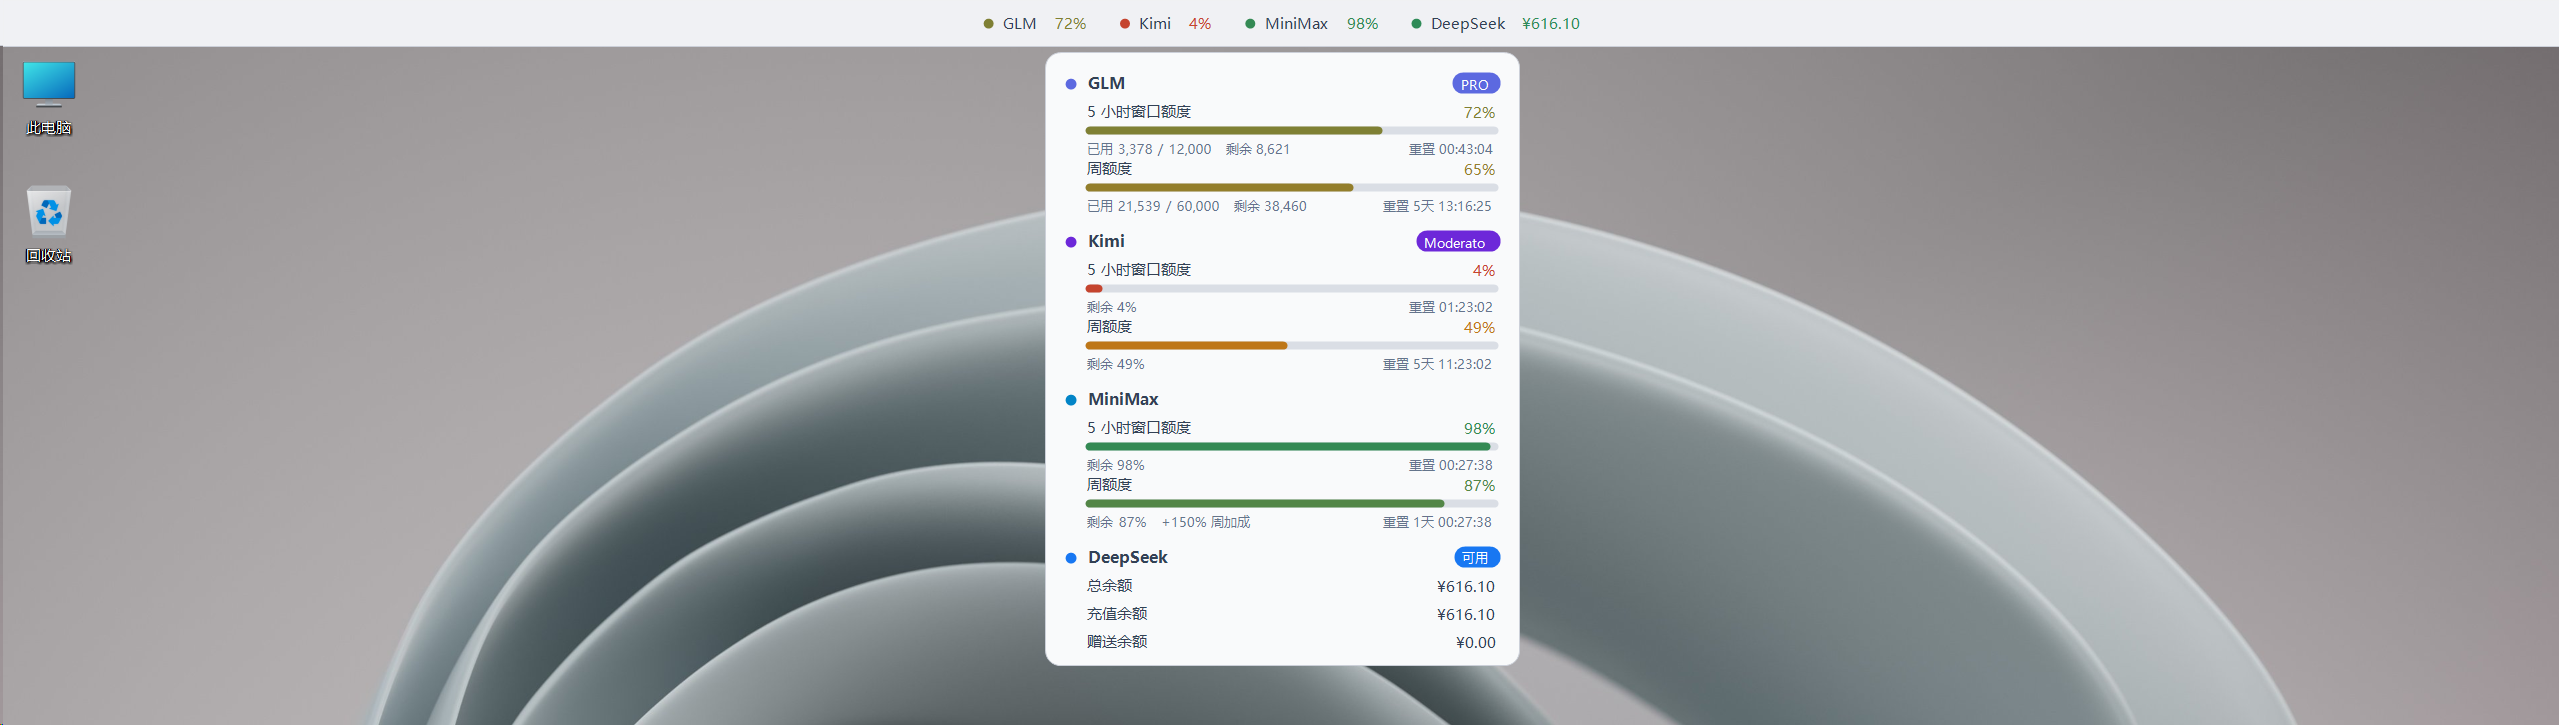
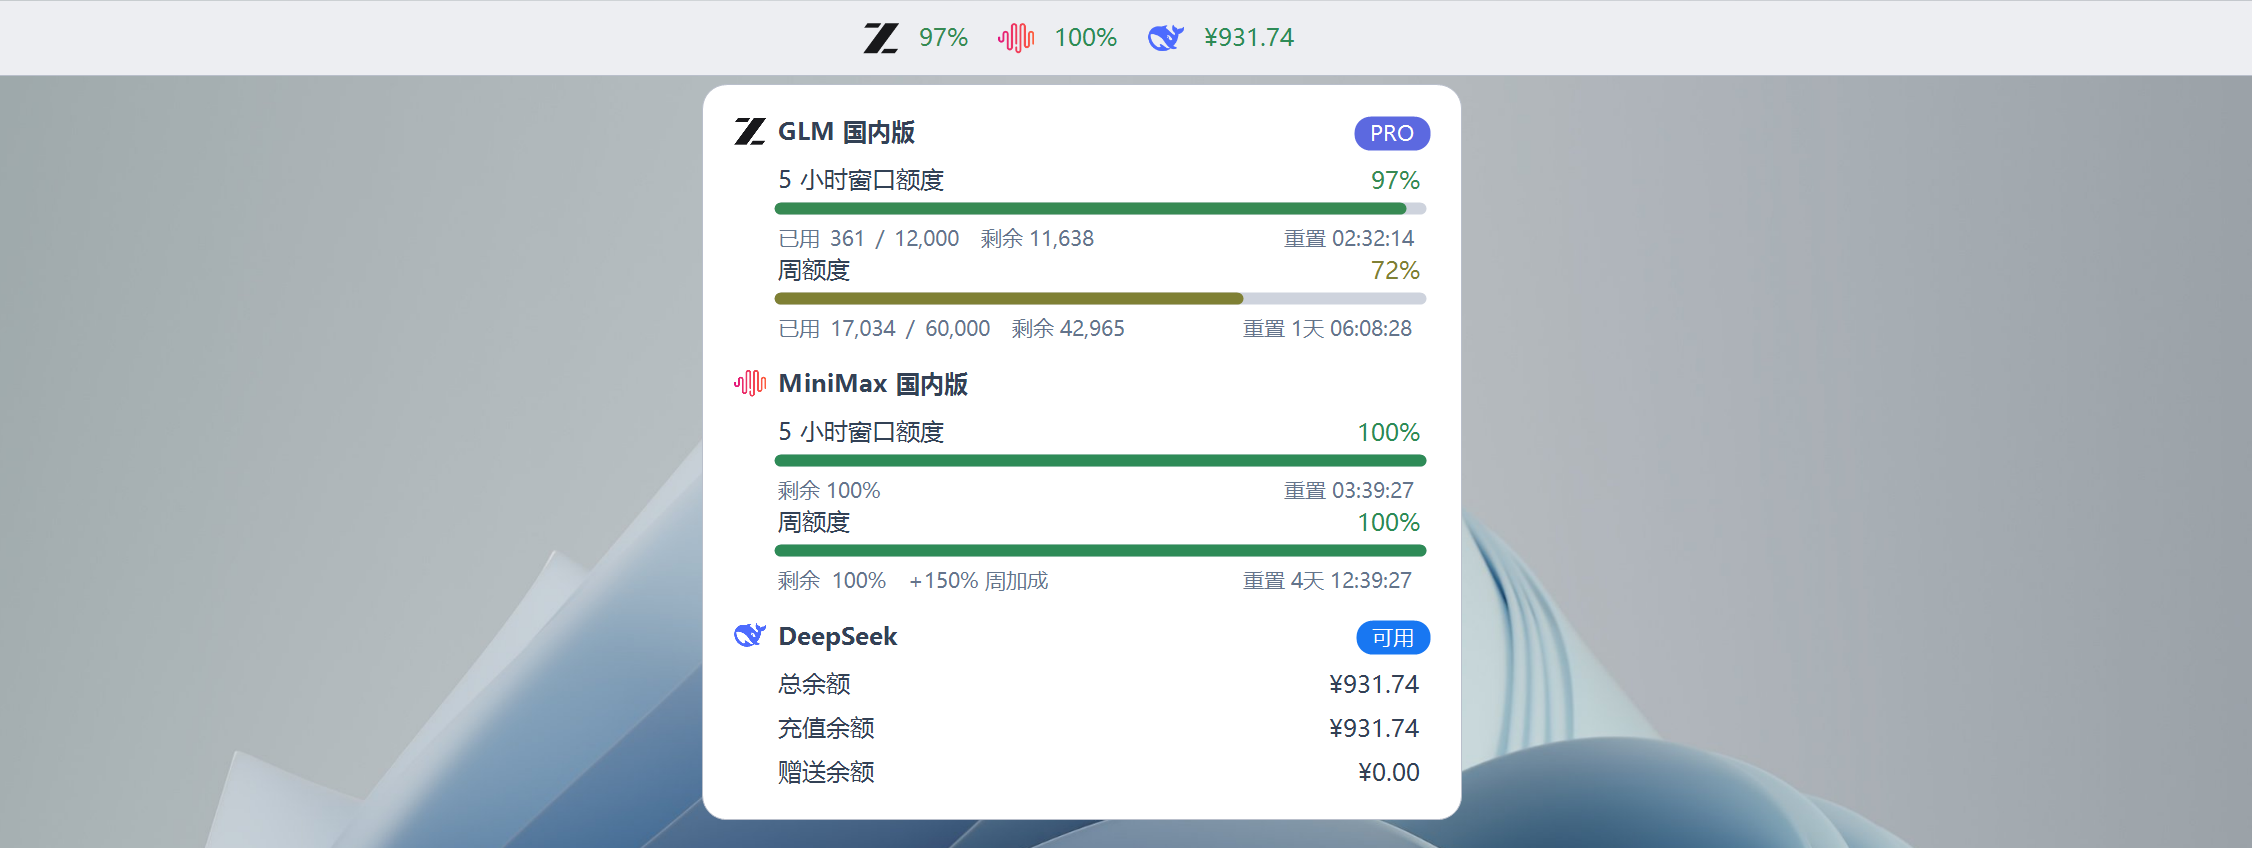
docs(readme): 补充侧边吸附截图并优化配图展示
- 新增 assets/widget-side.png 展示拖到屏幕左右两侧吸附为竖向条的效果
- 重写侧边吸附段落的说明文字，并将置顶栏模式描述独立成段
- 置顶栏与悬浮窗截图改用 img 标签设置宽度，统一配图排版
- 更新 assets/taskbar.png 与 assets/widget.png 截图内容

diff --git a/README.md b/README.md
@@ -4,9 +4,13 @@
 
 <img src="assets/widget.png" width="457" alt="悬浮窗">
 
-条形灵动岛可拖到屏幕**左右两侧**吸附为竖向条（每服务商：环形进度 + 百分比/余额两行，跨屏拖动各自独立判定）。另有置顶栏模式，全宽贴屏幕顶边常驻显示（可切换显示器）：
+条形灵动岛可拖到屏幕**左右两侧**吸附为竖向条（每服务商：环形进度 + 百分比/余额两行，跨屏拖动各自独立判定）：
 
-![置顶栏](assets/taskbar.png)
+<img src="assets/widget-side.png" width="420" alt="侧边吸附">
+
+另有置顶栏模式，全宽贴屏幕顶边常驻显示（可切换显示器）：
+
+<img src="assets/taskbar.png" width="720" alt="置顶栏">
 
 悬浮窗还有**条形灵动岛**排列（设置 → 通用 → 排列）：内容自适应宽的圆角胶囊贴顶显示，鼠标离开自动收起（不占用桌面空间），移入滑出展开，可拖拽定位与跨屏。
 
